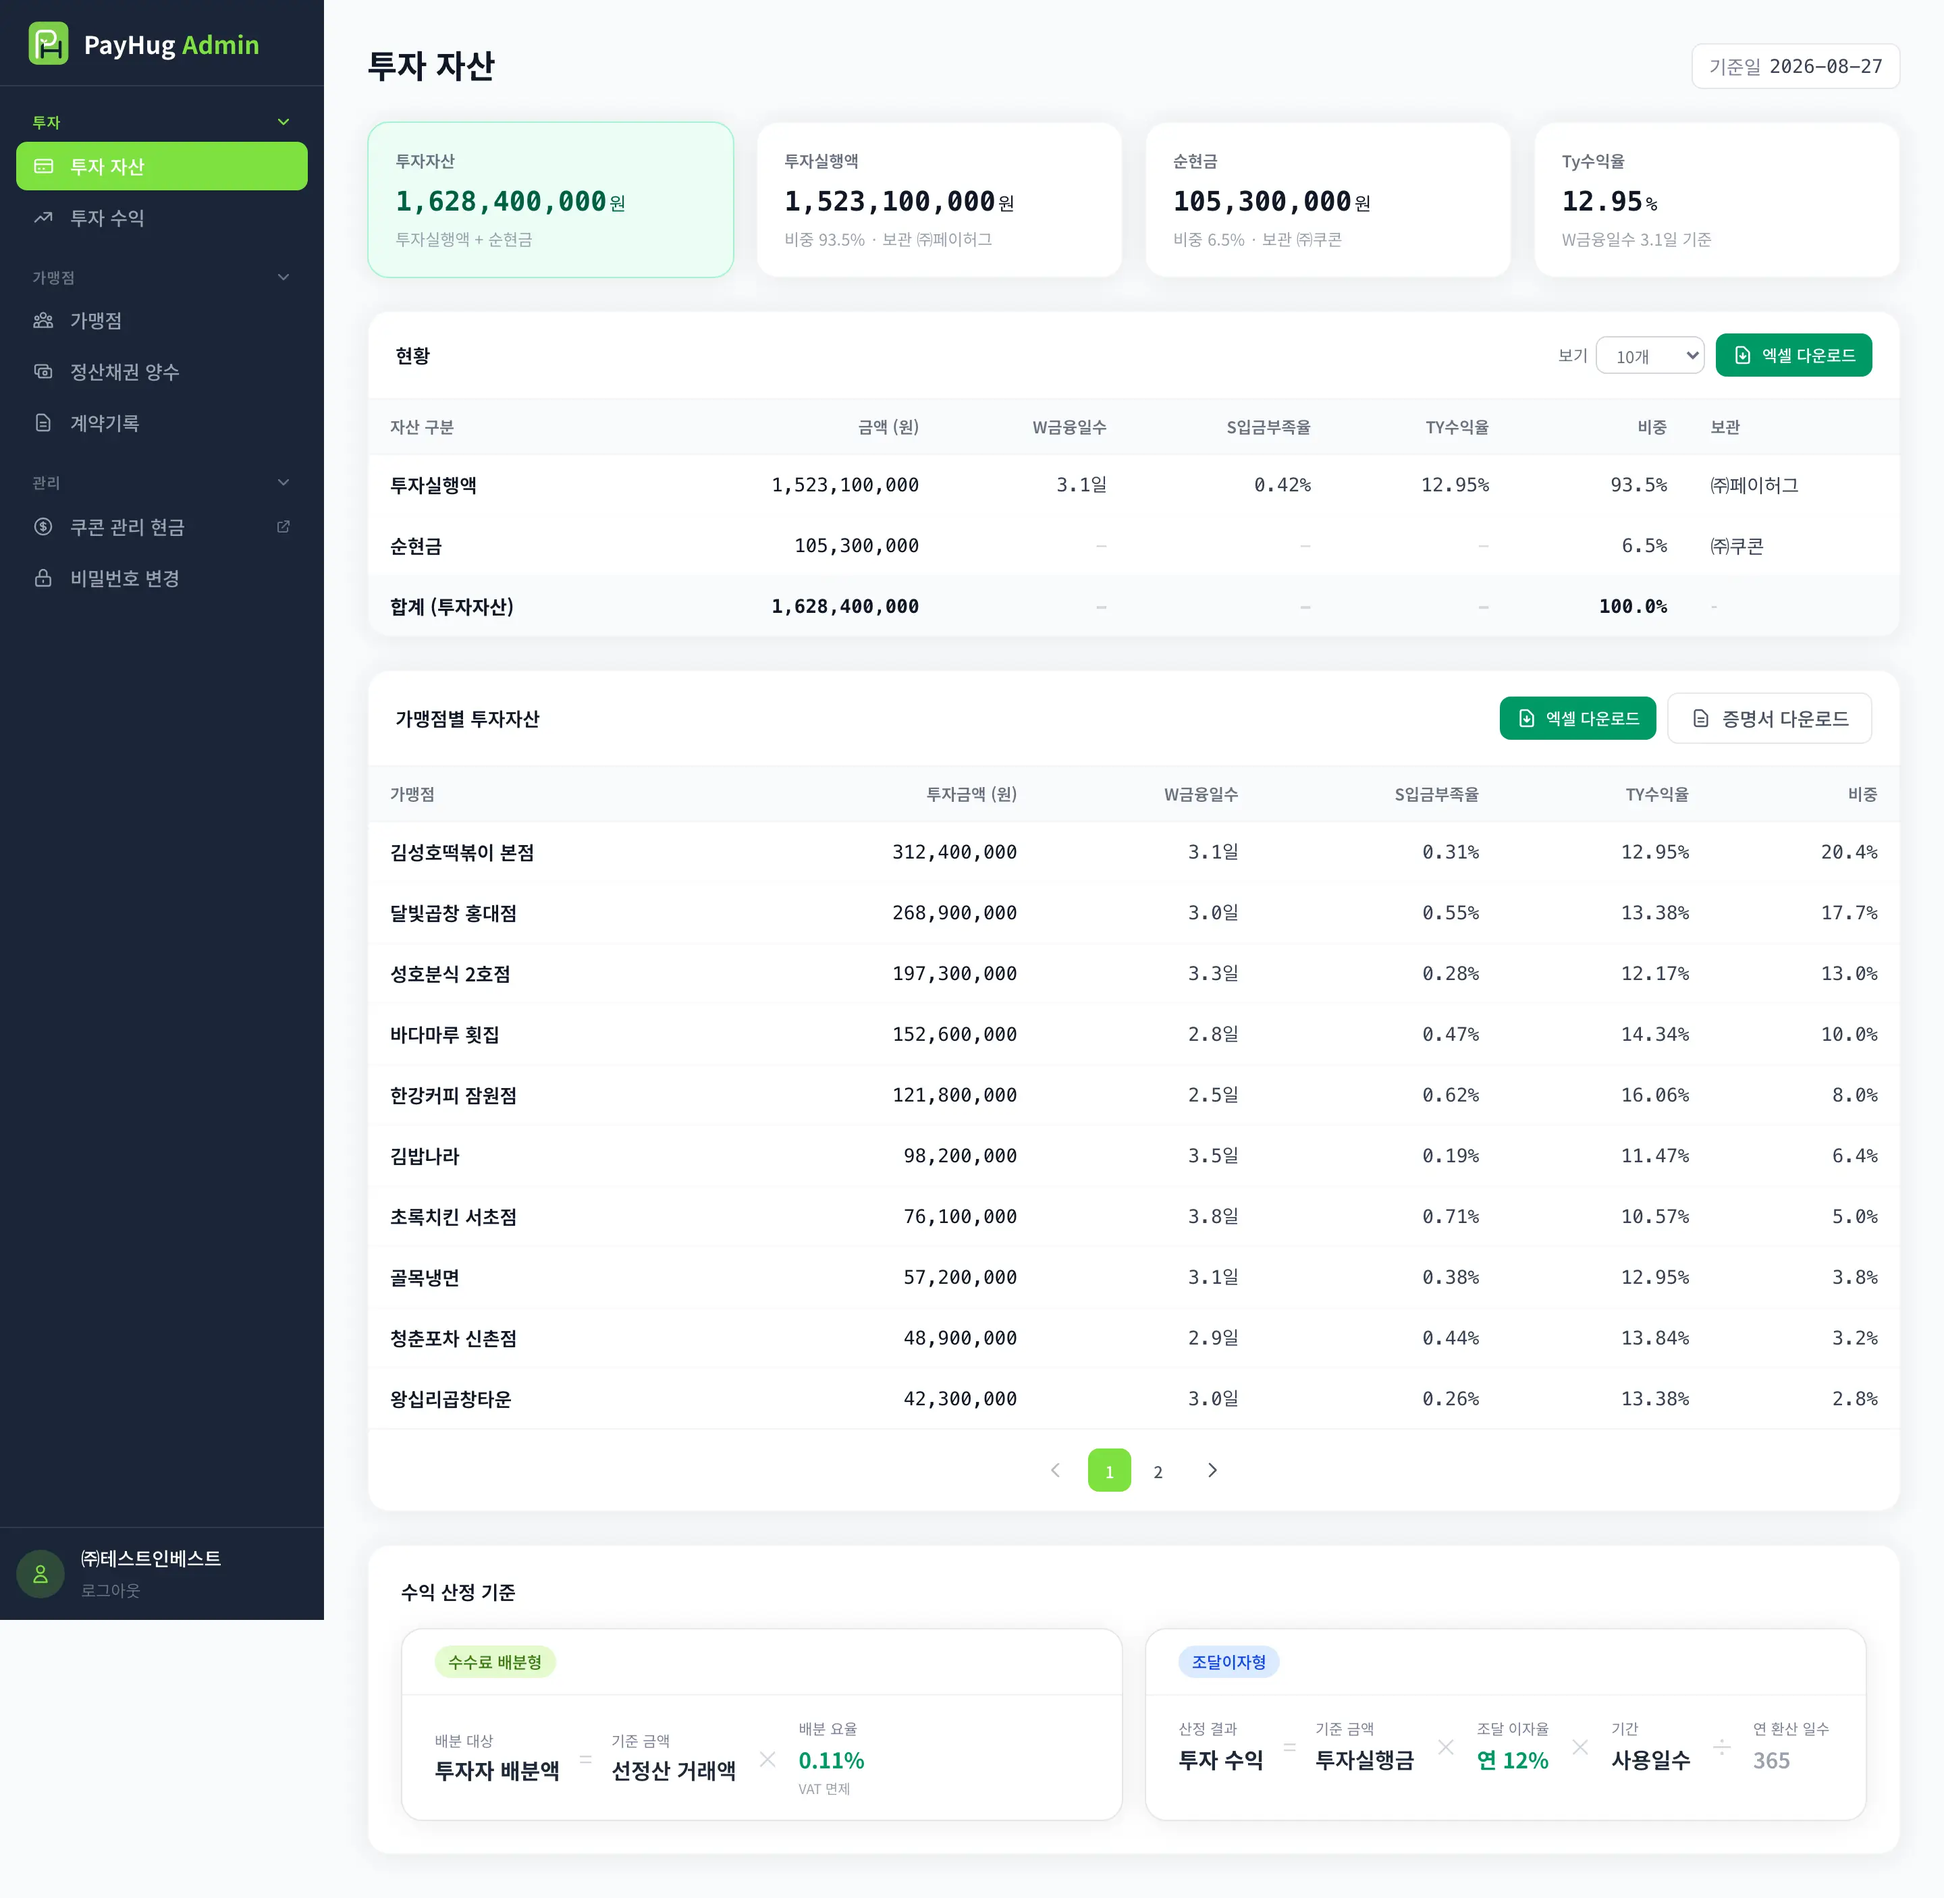
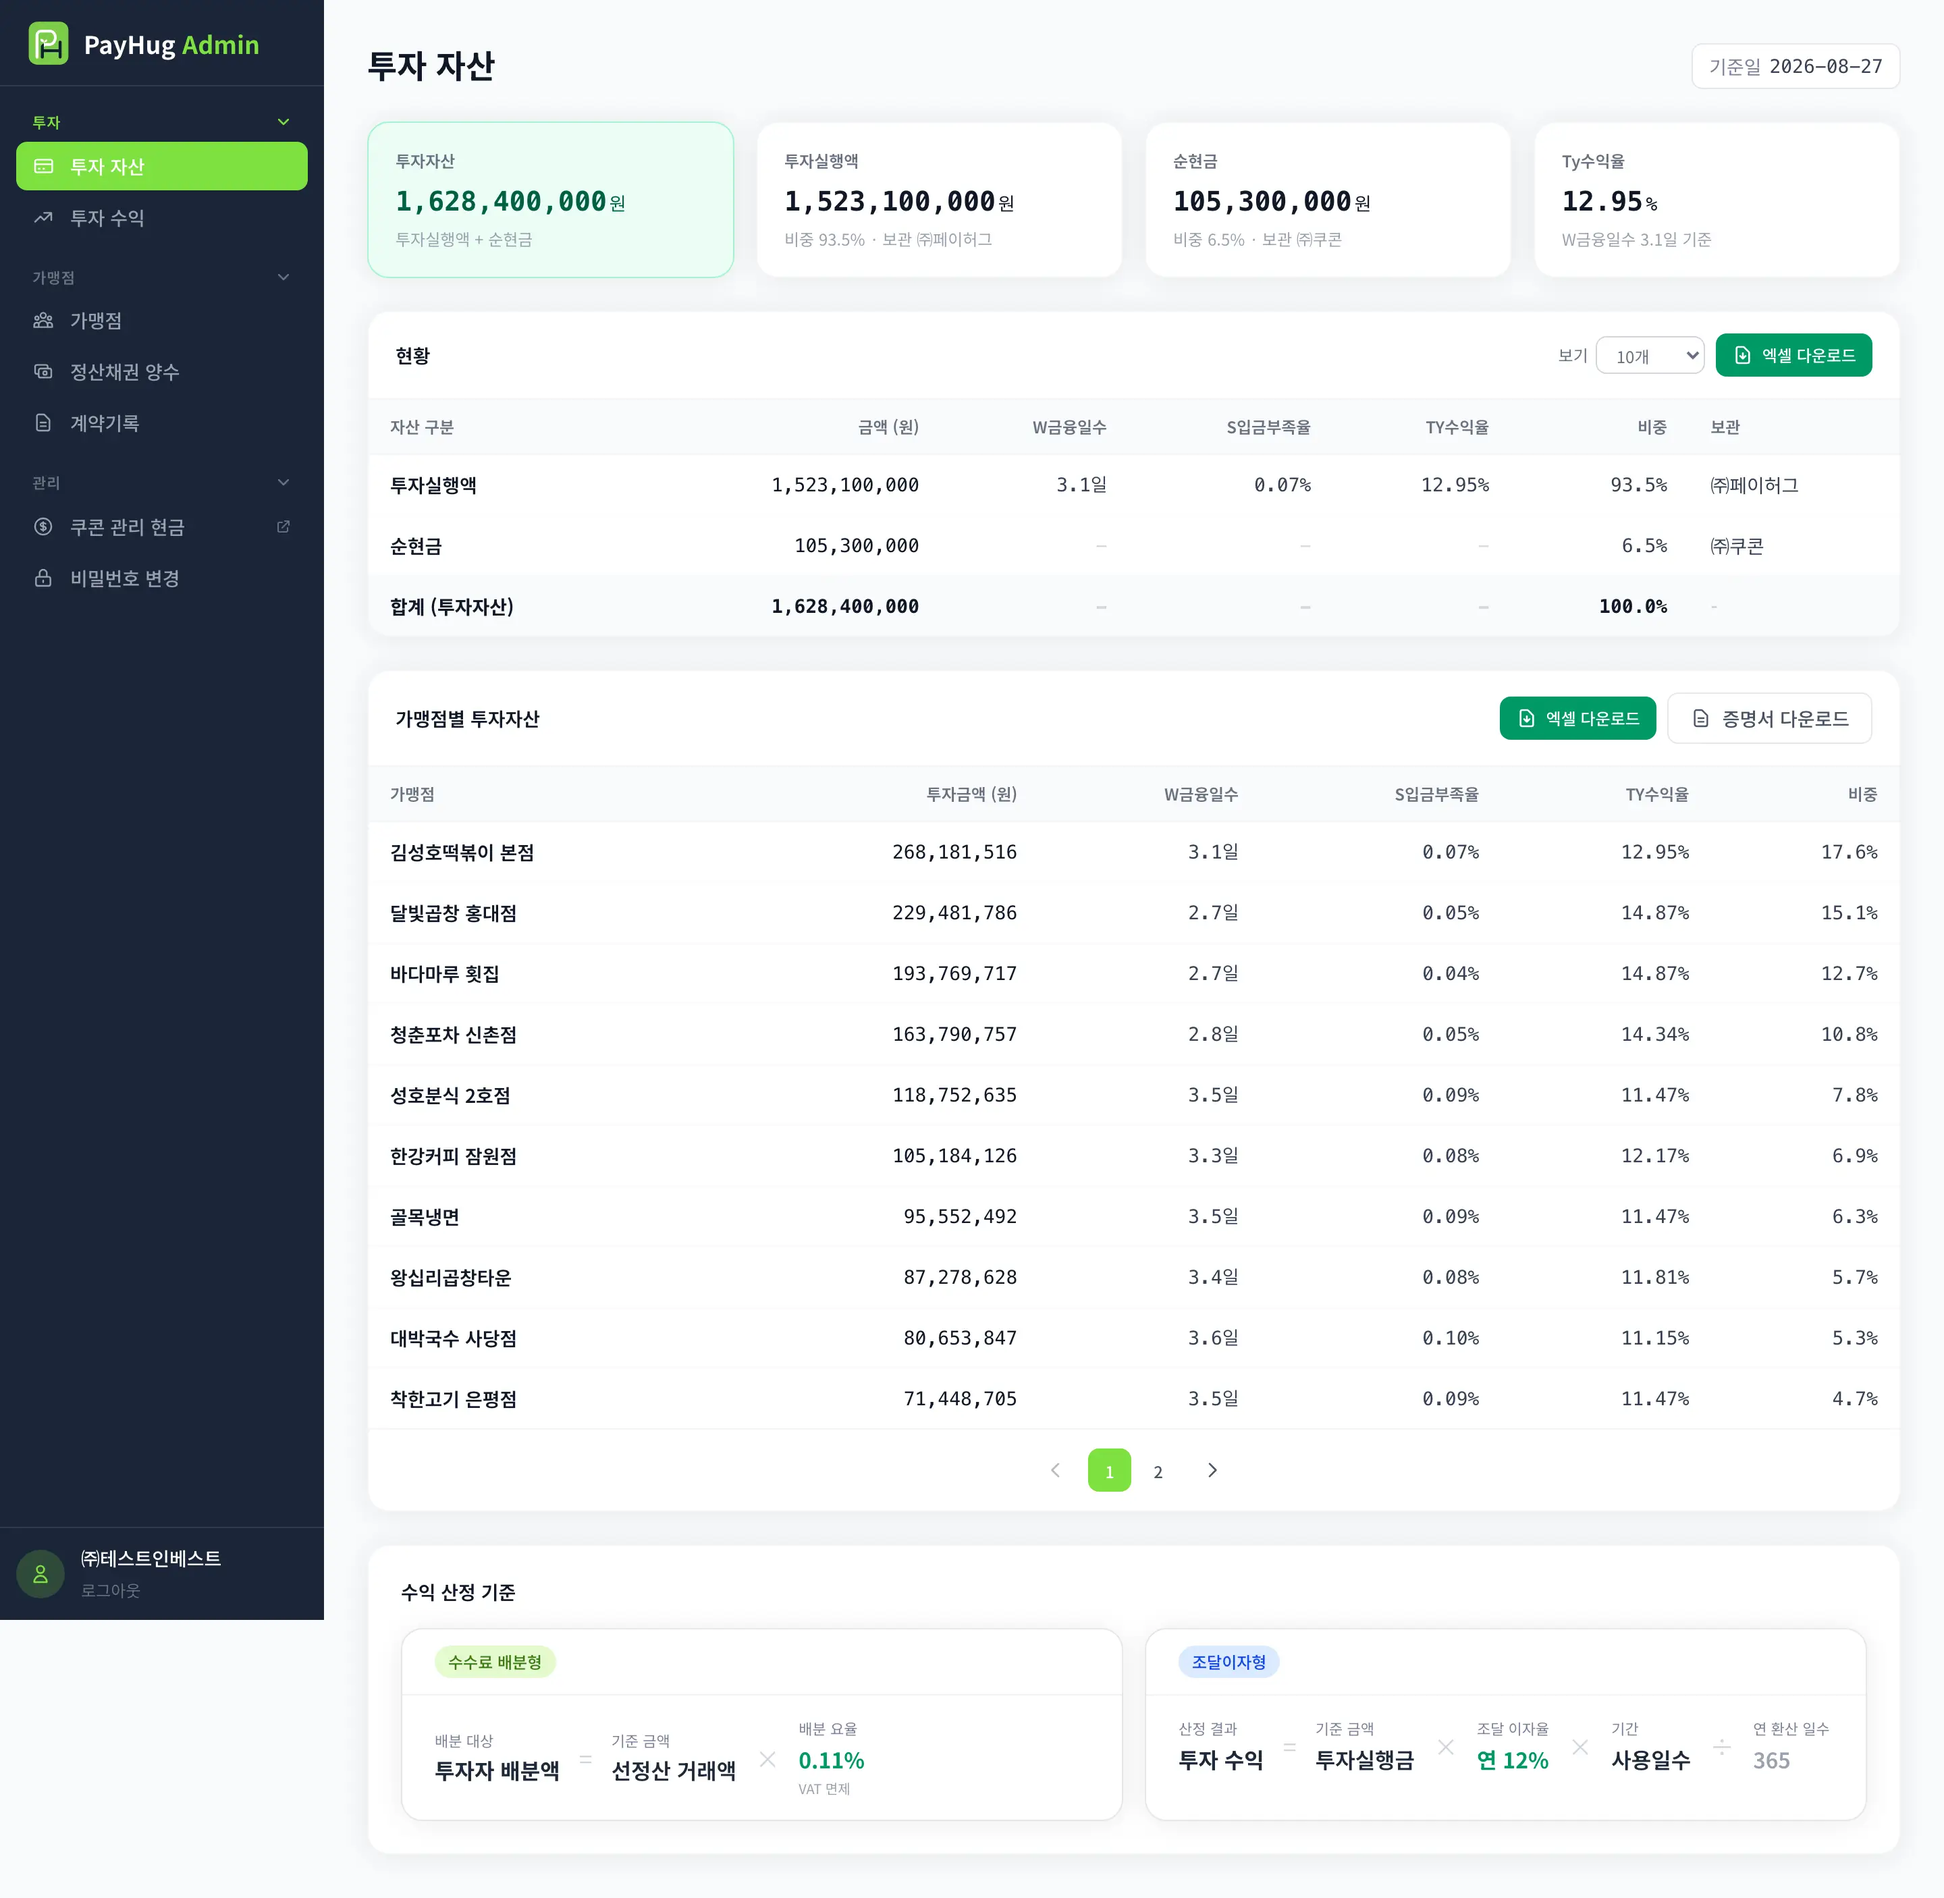
용어 해설 단독 배포본 동기화 — 원본 glossary.html 기준 재생성
상단 .tb-alt 블록(형제 문서 앵커 2건)을 다시 들어내고 제목을 배포본 것으로 맞춘다. 본문의 화면 이름 코드 표기와 캡처 참조는 그대로 두고 자산은 원본 assets 를 거울로 맞춘다.

Changed region(s): [[0.1875, 0.495, 0.2812, 0.7425]]

diff --git a/assets/base.css b/assets/base.css
@@ -151,6 +151,7 @@ svg.icon-lg { width: 20px; height: 20px; flex-shrink: 0; }    /* w-5 h-5 */
 /* body[data-active="메뉴ID"] 로 화면별 활성 메뉴 지정 (template.html의 data-menu와 짝) */
 body[data-active="invest-assets"]  .nav-item[data-menu="invest-assets"],
 body[data-active="invest-returns"] .nav-item[data-menu="invest-returns"],
+body[data-active="invest-sim"]     .nav-item[data-menu="invest-sim"],
 body[data-active="merchants"]      .nav-item[data-menu="merchants"],
 body[data-active="receivables"]    .nav-item[data-menu="receivables"],
 body[data-active="contracts"]      .nav-item[data-menu="contracts"],
@@ -160,6 +161,7 @@ body[data-active="password"]       .nav-item[data-menu="password"] {
 }
 body[data-active="invest-assets"]  .nav-group[data-group="invest"] .nav-group-label,
 body[data-active="invest-returns"] .nav-group[data-group="invest"] .nav-group-label,
+body[data-active="invest-sim"]     .nav-group[data-group="invest"] .nav-group-label,
 body[data-active="merchants"]      .nav-group[data-group="merchant"] .nav-group-label,
 body[data-active="receivables"]    .nav-group[data-group="merchant"] .nav-group-label,
 body[data-active="contracts"]      .nav-group[data-group="merchant"] .nav-group-label,
